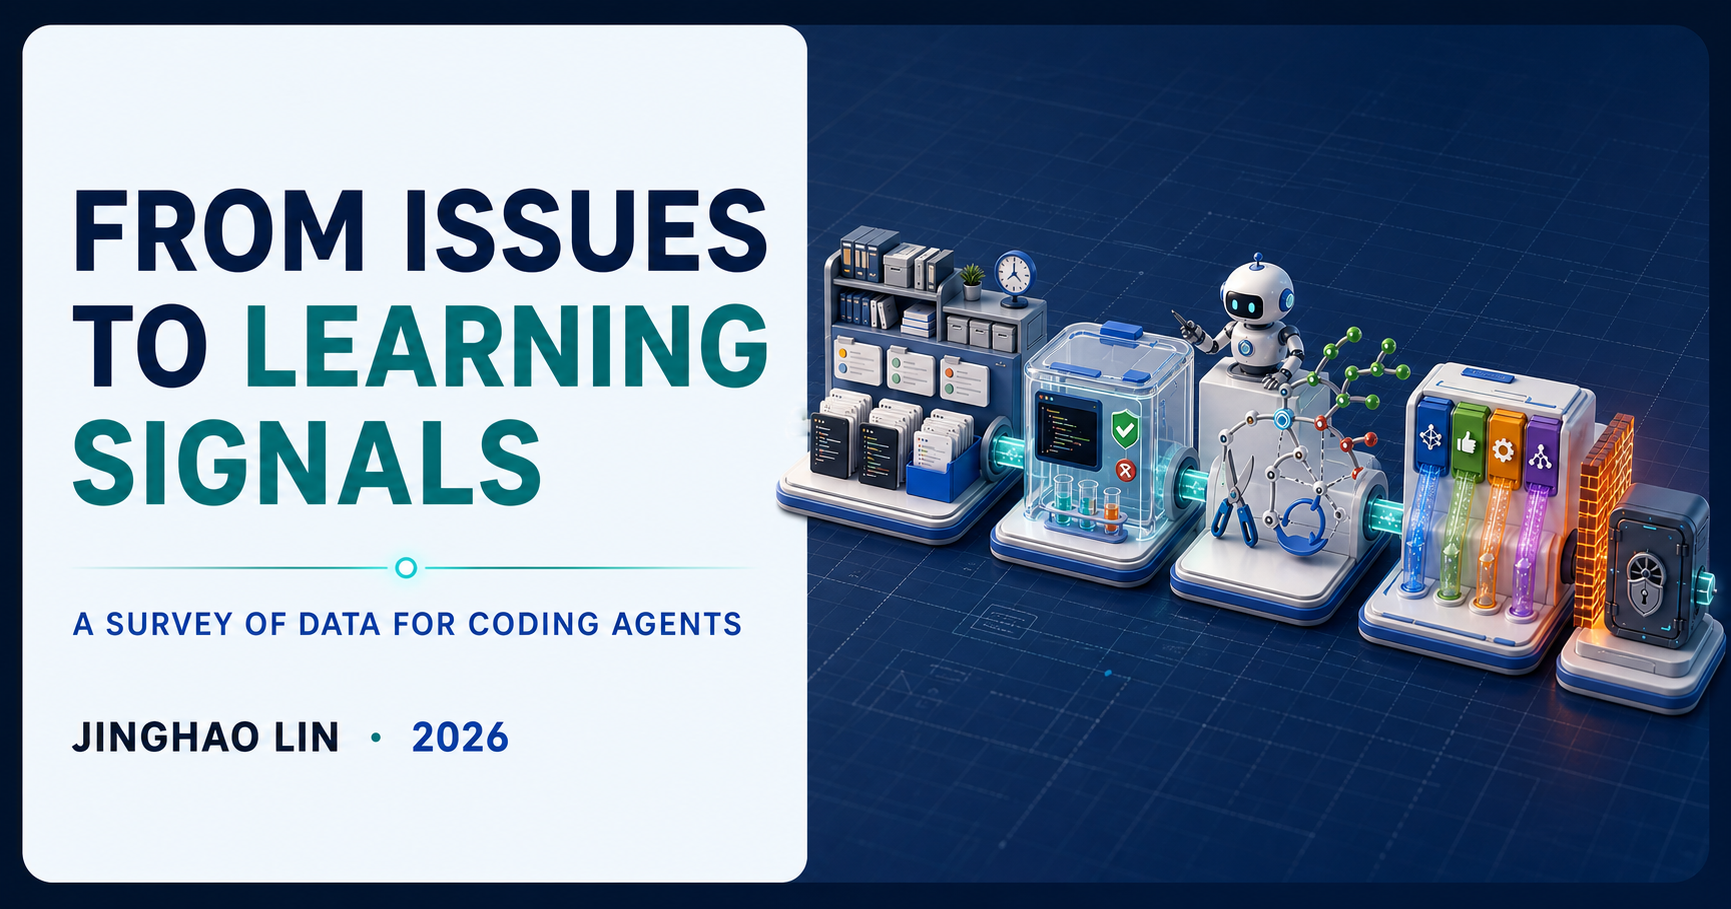
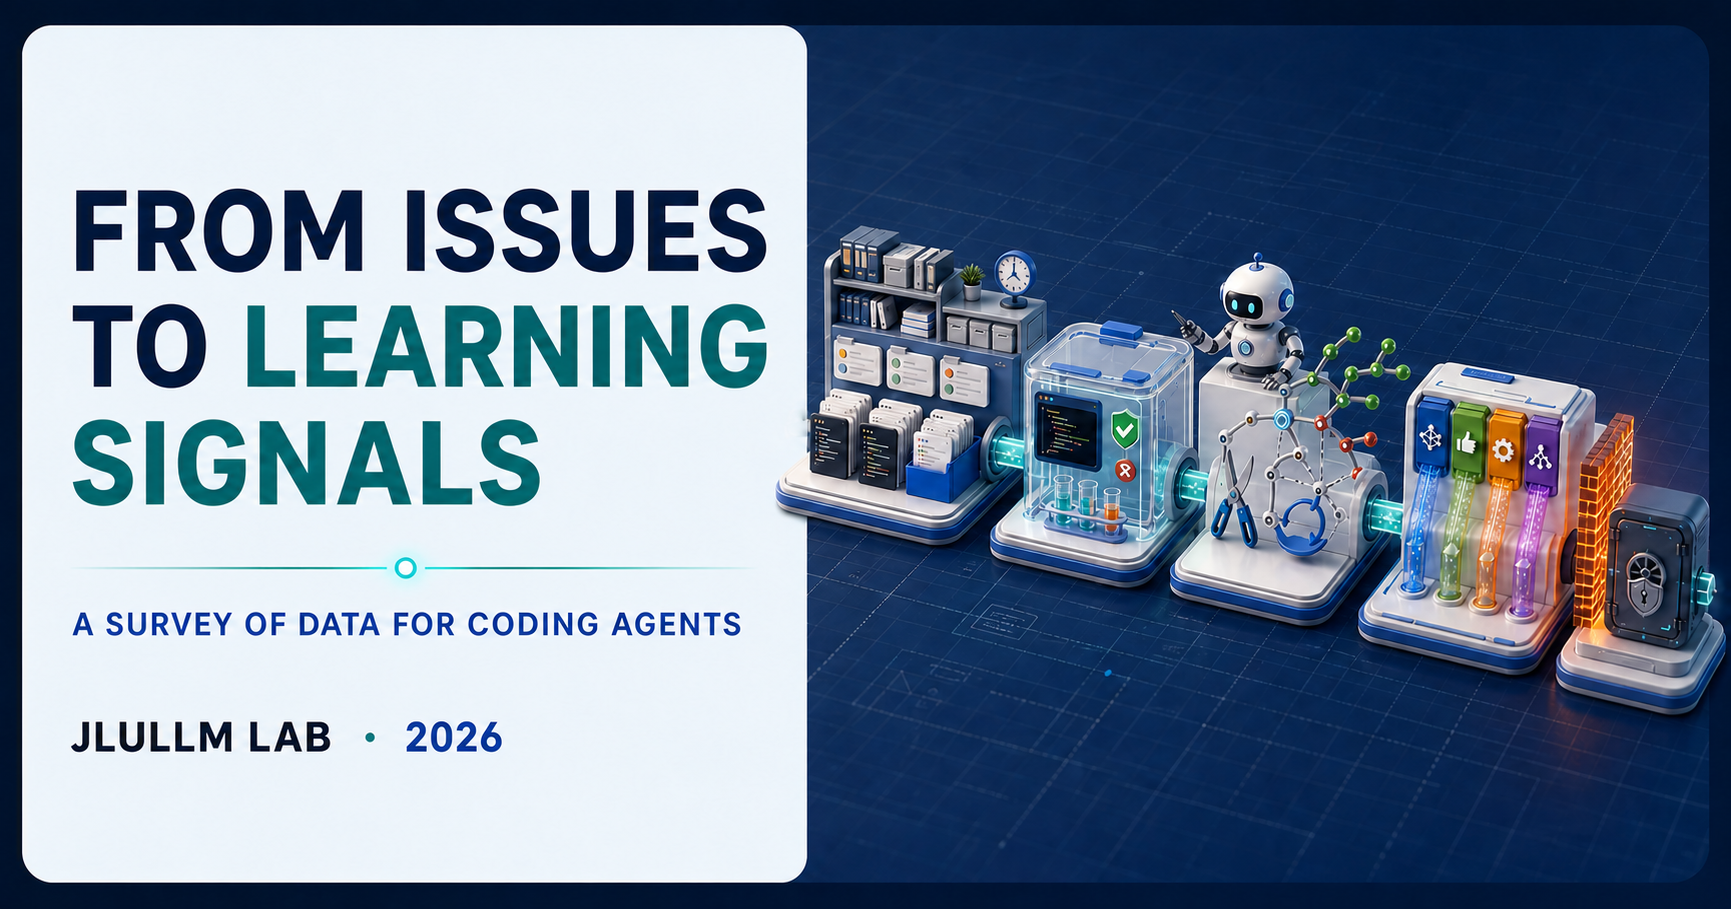
Update survey branding to JLULLM LAB

diff --git a/coding-agent-data/index.html b/coding-agent-data/index.html
@@ -59,7 +59,7 @@
           <h1>From Issues to<br><span>Learning Signals</span></h1>
           <p class="hero-subtitle">A Survey of Data for Coding Agents</p>
           <p class="hero-thesis">Coding-agent data is <strong>executable experience</strong>, not an isolated prompt–response pair.</p>
-          <p class="author-line">Jinghao Lin <span aria-hidden="true">·</span> Independent Research Draft</p>
+          <p class="author-line">JLULLM LAB <span aria-hidden="true">·</span> Independent Research Draft</p>
           <div class="hero-actions">
             <a class="button button-primary" href="assets/coding_agent_data_survey.pdf">Read the paper <span aria-hidden="true">↗</span></a>
             <a class="button button-secondary" href="#landscape">Explore the taxonomy</a>
@@ -373,7 +373,7 @@
           <p>Versioned draft · evidence frozen 18 August 2026 · website updated 19 August 2026.</p>
           <div class="hero-actions">
             <a class="button button-primary" href="assets/coding_agent_data_survey.pdf">Download PDF</a>
-            <a class="button button-secondary" href="https://linjh1118.github.io/">Jinghao Lin’s homepage</a>
+            <a class="button button-secondary" href="https://linjh1118.github.io/">JLULLM LAB homepage</a>
           </div>
         </div>
         <div class="bibtex-card reveal">
@@ -384,7 +384,7 @@
           <pre id="bibtex">@article{lin2026codingagentdata,
   title   = {From Issues to Learning Signals:
              A Survey of Data for Coding Agents},
-  author  = {Lin, Jinghao},
+  author  = {JLULLM LAB},
   year    = {2026},
   note    = {Survey manuscript},
   url     = {https://linjh1118.github.io/coding-agent-data/}
@@ -407,7 +407,7 @@
         <a href="https://linjh1118.github.io/">Author</a>
         <a href="#cite">Citation</a>
       </div>
-      <p class="footer-meta">© 2026 Jinghao Lin · Figures and index released with the survey draft.</p>
+      <p class="footer-meta">© 2026 JLULLM LAB · Figures and index released with the survey draft.</p>
     </div>
   </footer>
 
